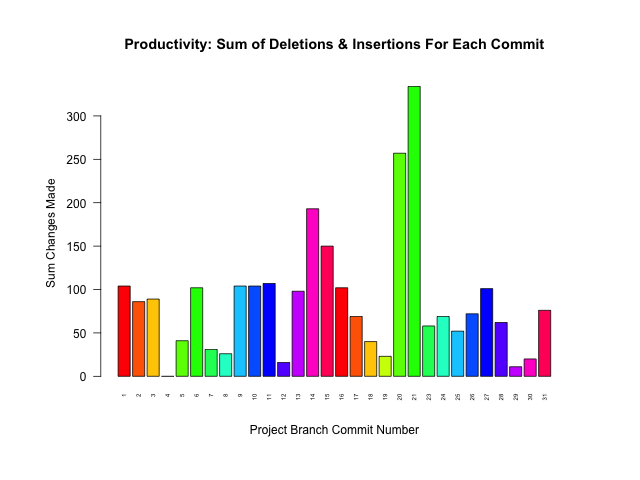
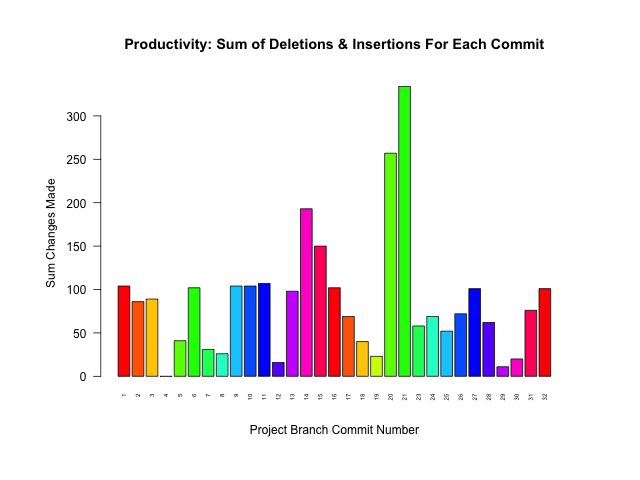
COMMIT #282

Changed region(s): [[0.1875, 0.1562, 0.875, 0.7812], [0.3438, 0.8125, 0.8125, 0.8438], [0.2812, 0.8125, 0.3125, 0.8438]]

diff --git a/README.md b/README.md
@@ -17,8 +17,8 @@ ProjectName::BranchName.data
 
 Project Name | Last Updated | # Commits | # Branches | Branches Merged
 :---|:---:|:---:|:---:|:---:
-[Algorithms_practice](https://github.com/pierremigeon/Algorithms_practice)                          |  2023-08-06  |  31   |  9  |  78%   (7/9)
-[commit_tracker](https://github.com/pierremigeon/commit_tracker)                                    |  2023-08-05  |  280  |  1  |  100%  (1/1)
+[Algorithms_practice](https://github.com/pierremigeon/Algorithms_practice)                          |  2023-08-07  |  32   |  9  |  78%   (7/9)
+[commit_tracker](https://github.com/pierremigeon/commit_tracker)                                    |  2023-08-06  |  281  |  1  |  100%  (1/1)
 [FASTQ_examiner](https://github.com/pierremigeon/FASTQ_examiner)                                    |  2023-07-28  |  80   |  4  |  75%   (3/4)
 [learn_some_C.Plus.Plus](https://github.com/pierremigeon/learn_some_C.Plus.Plus)                    |  2023-07-17  |  79   |  2  |  50%   (1/2)
 [libft](https://github.com/pierremigeon/libft)                                                      |  2023-06-05  |  30   |  2  |  50%   (1/2)
